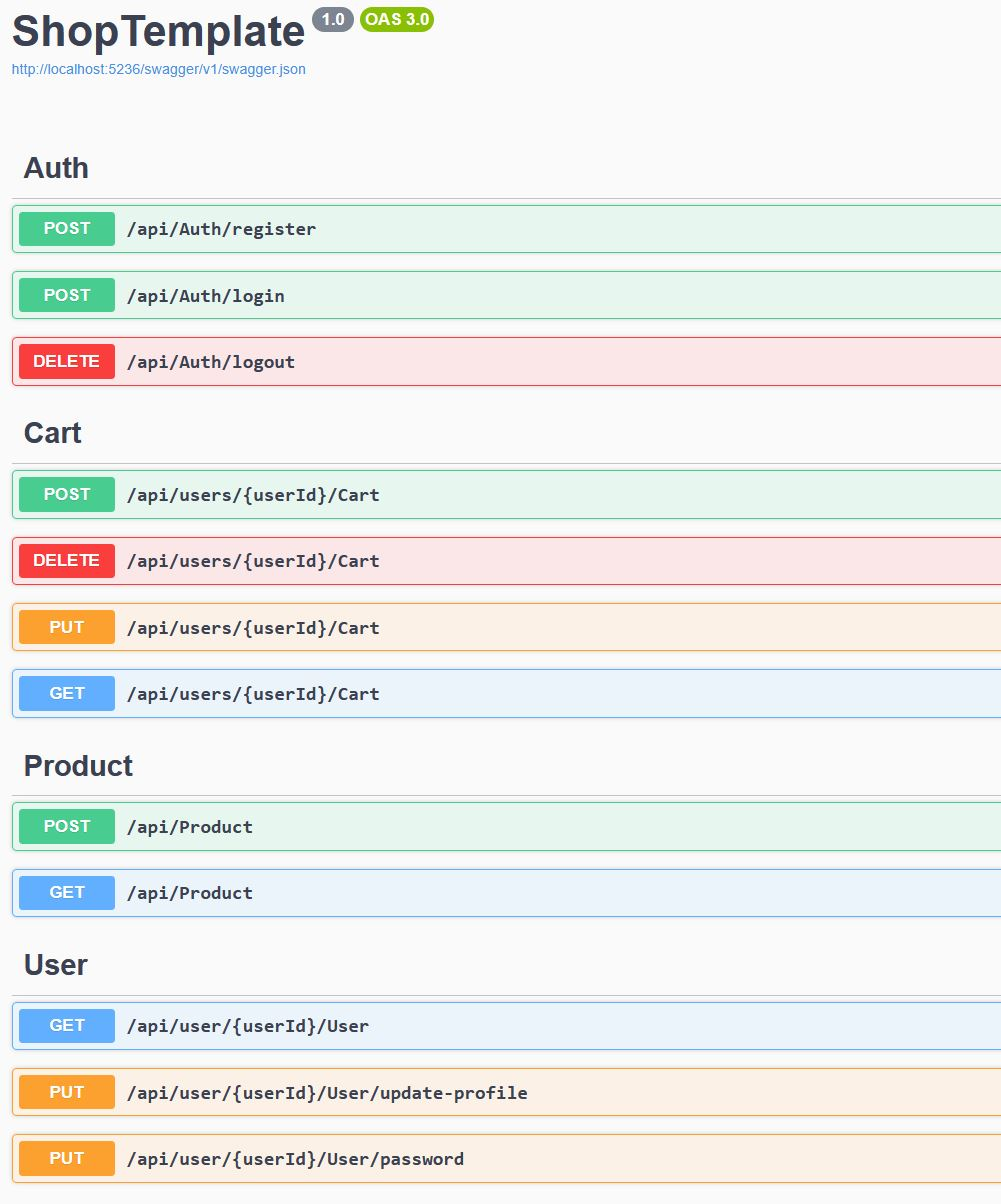
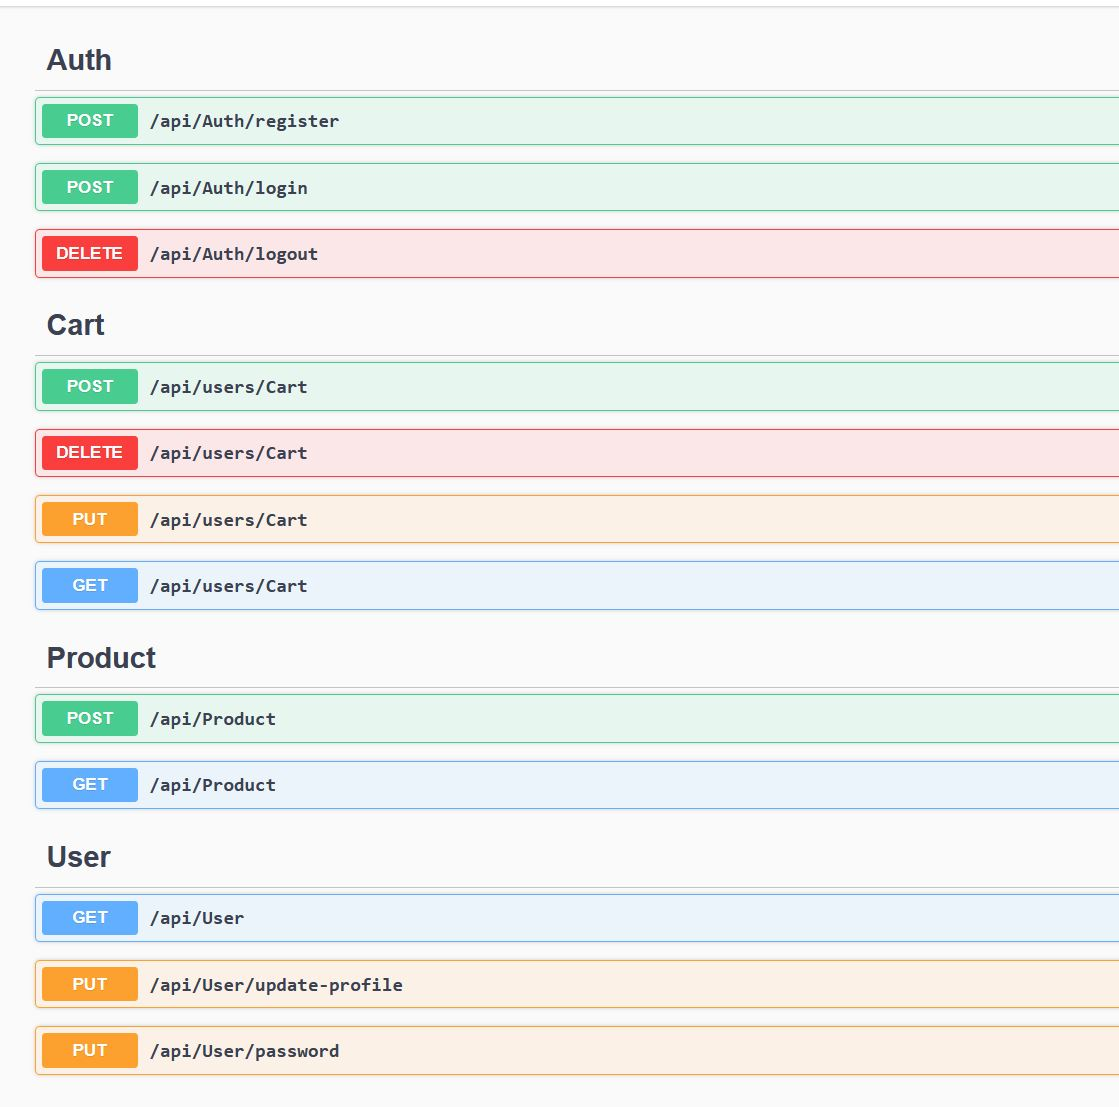
changing picture

Changed region(s): [[0.0, 0.0, 1.0, 0.9828]]

diff --git a/ShopTemplate/Controllers/UserController.cs b/ShopTemplate/Controllers/UserController.cs
@@ -8,7 +8,7 @@ using ShopTemplate.Services;
 namespace ShopTemplate.Controllers;
 
 [ApiController]
-[Route("api/user/[controller]")]
+[Route("api/[controller]")]
 public class UserController : ControllerBase
 {
     private readonly UserService _userService;
